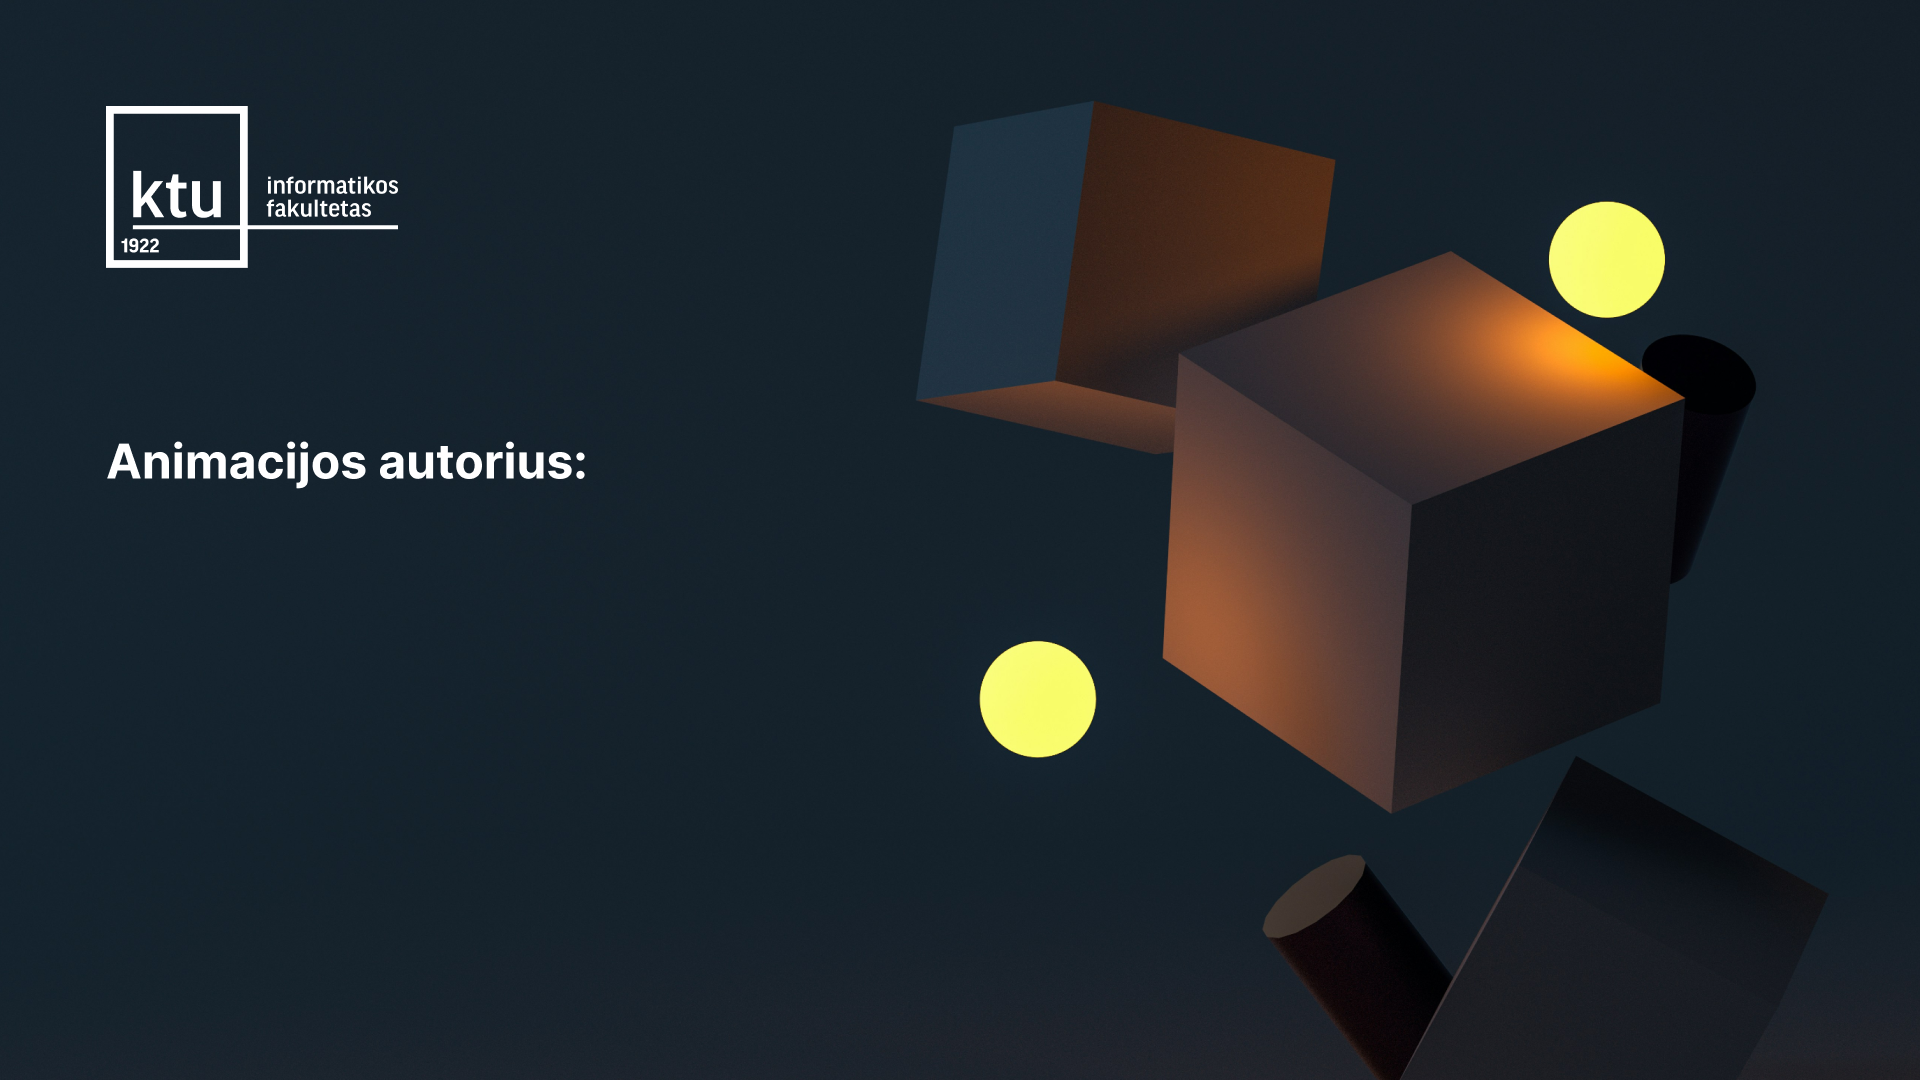
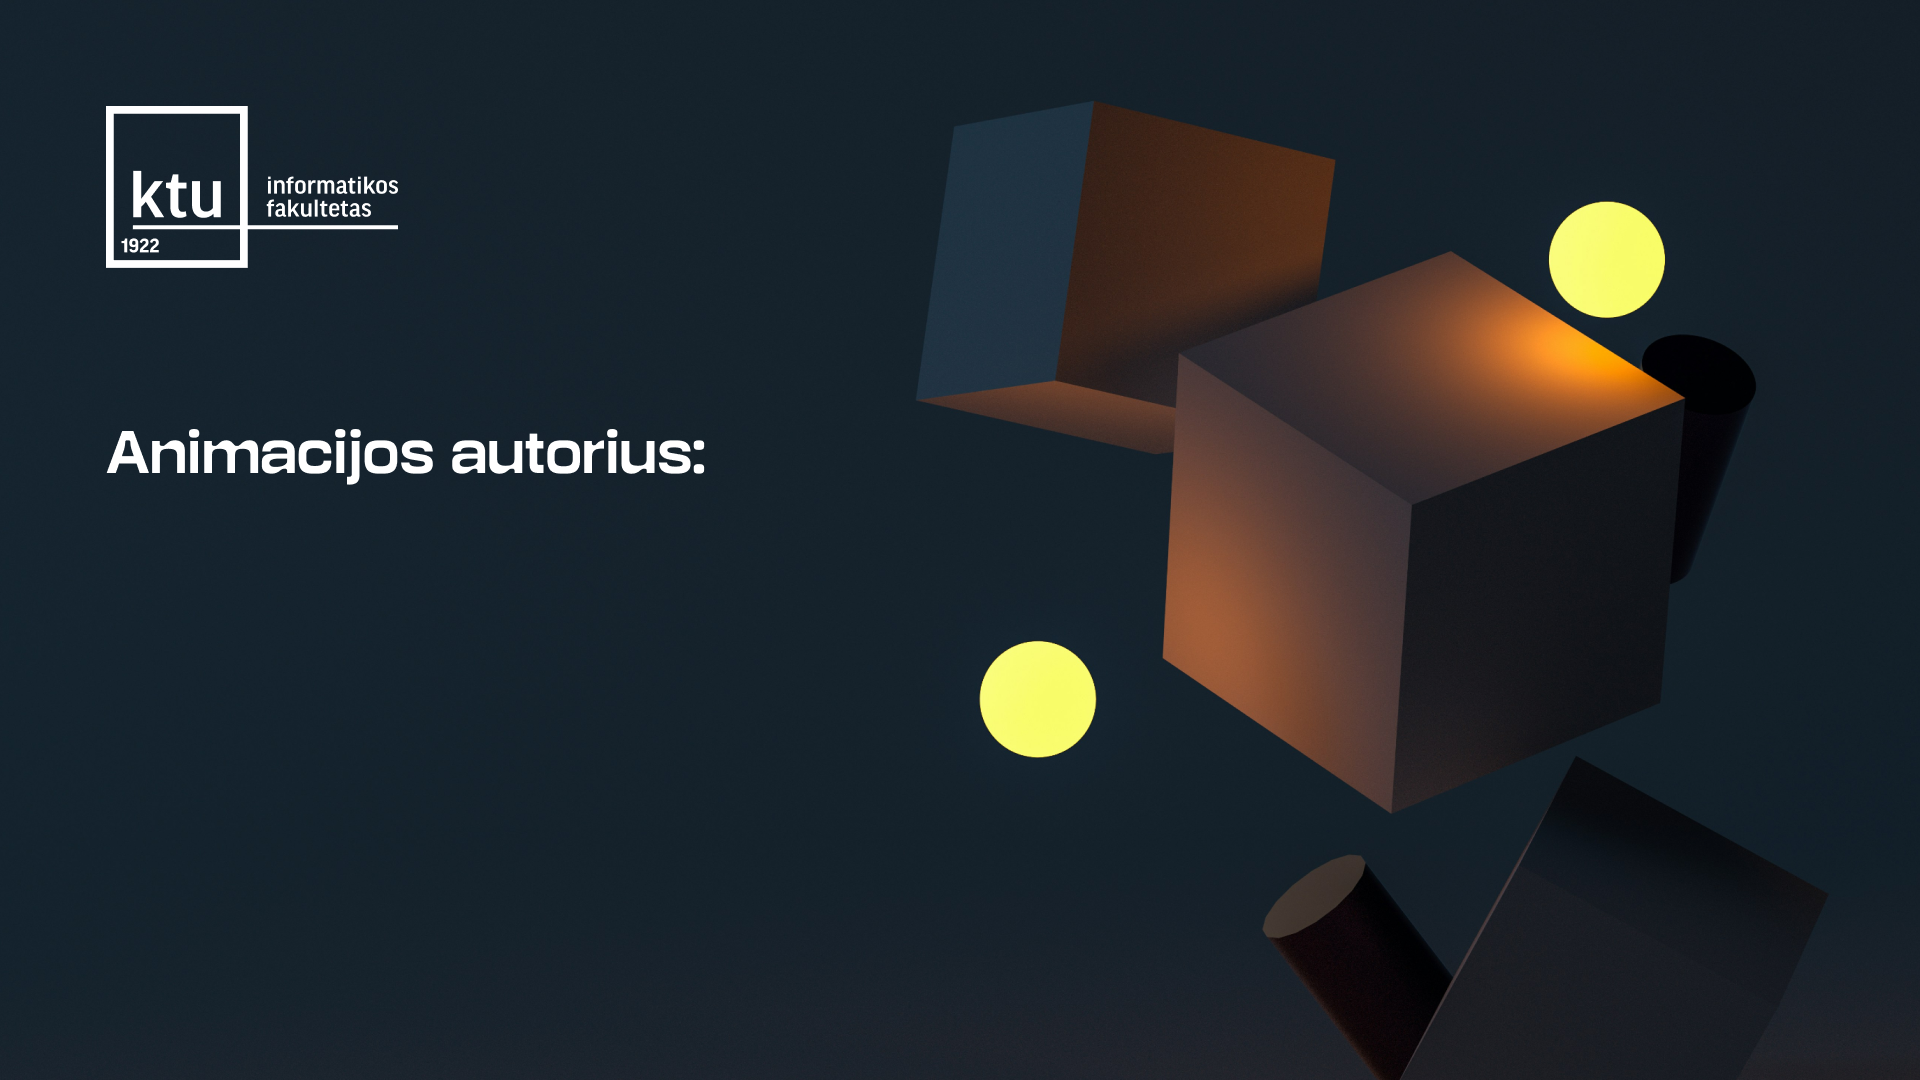
Ending card font change

Changed region(s): [[0.0625, 0.3972, 0.375, 0.4583]]

diff --git a/src/main/core/endingFrame.js b/src/main/core/endingFrame.js
@@ -3,14 +3,14 @@ import fs from 'node:fs';
 import path from 'node:path';
 import { app } from 'electron';
 
-// Register Inter font from packaged or local resources if available
+// Register KTU Sans font from packaged or local resources if available
 (() => {
   const resourcesBase = app?.isPackaged ? process.resourcesPath : path.join(process.cwd(), 'resources');
   const candidates = [
-    path.join(resourcesBase, 'fonts', 'Inter-Bold.otf'),
-    path.join(resourcesBase, 'Inter-Bold.otf'),
-    path.join(process.cwd(), 'resources', 'fonts', 'Inter-Bold.otf'),
-    path.join(process.cwd(), 'Inter-Bold.otf'),
+    path.join(resourcesBase, 'fonts', 'KTU-Sans.otf'),
+    path.join(resourcesBase, 'KTU-Sans.otf'),
+    path.join(process.cwd(), 'resources', 'fonts', 'KTU-Sans.otf'),
+    path.join(process.cwd(), 'KTU-Sans.otf'),
   ];
   const fontPath = candidates.find((p) => {
     try {
@@ -20,7 +20,7 @@ import { app } from 'electron';
     }
   });
   if (fontPath) {
-    registerFont(fontPath, { family: 'Inter' });
+    registerFont(fontPath, { family: 'KTU Sans' });
   }
 })();
 
@@ -51,7 +51,7 @@ export async function createEndingFrame({ text, width, height, color = '#fff' })
   //ctx.fillText('Animacijos autorius:', width / 2, y);
 
   // Line 2: Name (bigger font, +30px = 78px)
-  ctx.font = 'bold 104px Inter';
+  ctx.font = 'bold 104px "KTU Sans"';
   const nameX = 105;
   const nameY = 525;
   ctx.fillText(text, nameX, nameY);
@@ -61,7 +61,7 @@ export async function createEndingFrame({ text, width, height, color = '#fff' })
 
   // Line 3: © YEAR
   const year = new Date().getFullYear();
-  ctx.font = 'bold 49px Inter';
+  ctx.font = 'bold 49px "KTU Sans"';
   ctx.fillText(`© ${year}`, nameX, yearY);
 /*
   // Logo at bottom
